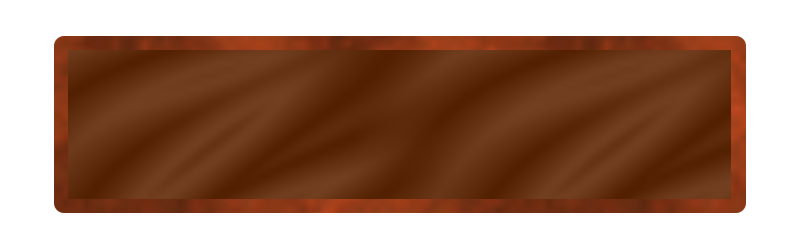
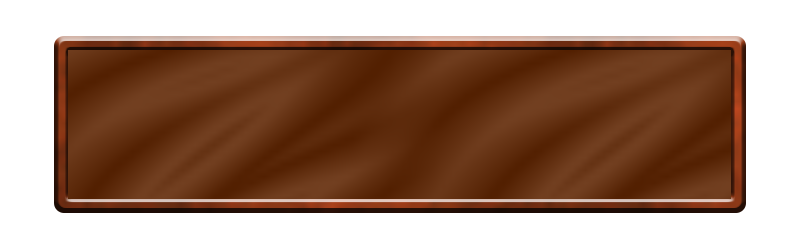
Melhorias e correções tela inicial, menu e seleção música
Melhorias e correções tela inicial, menu e seleção música.

Padronização dos botões
Exibição do nível do perfil conectado na tela de menu
Correção de scripts na tela de seleção de música

Changed region(s): [[0.0625, 0.14, 0.9375, 0.868]]

diff --git a/Assets/Scripts/TelaInicial/ScriptsTelaInicial.cs b/Assets/Scripts/TelaInicial/ScriptsTelaInicial.cs
@@ -43,38 +43,47 @@ public class ScriptsTelaInicial : MonoBehaviour{
     }
 
     public void CriarNovoPerfil() {
-        edNomeNovoPerfil.gameObject.SetActive(true);
-        edNomeNovoPerfil.onEndEdit.AddListener(delegate { EdNomeNovoPerfilOnChange(); });           
-        edNomeNovoPerfil.Select(); // SetFocus
-        edNomeNovoPerfil.ActivateInputField(); // SetFocus
+        if (!edNomeNovoPerfil.IsActive()) {
+            edNomeNovoPerfil.gameObject.SetActive(true);
+            edNomeNovoPerfil.onEndEdit.AddListener(delegate { EdNomeNovoPerfilOnChange(); });           
+            edNomeNovoPerfil.Select(); // SetFocus
+            edNomeNovoPerfil.ActivateInputField(); // SetFocus
+        } else {
+            criarNovoPerfil();
+        }
     }
 
     private void EdNomeNovoPerfilOnChange() {
         if (Input.GetKeyDown(KeyCode.Return)) {
-            try {
-                //Debug.Log("Confirmou");
-                edNomeNovoPerfil.gameObject.SetActive(false);
-                if (!edNomeNovoPerfil.text.Trim().Equals("", System.StringComparison.OrdinalIgnoreCase)) {
-                
-                    bool perfilJaCadastrado = false;
-                    foreach(Dropdown.OptionData itemCombo in cbPerfis.options) {
-                        perfilJaCadastrado = perfilJaCadastrado
-                                          || itemCombo.text.Trim().Equals(edNomeNovoPerfil.text.Trim(), System.StringComparison.OrdinalIgnoreCase);
-                    }
-                    if (!perfilJaCadastrado) {
-                        Perfil novoPerfil = new Perfil(){ nome = edNomeNovoPerfil.text.Trim(), endereco_Mac = ServicosUtils.RetornaMelhorEnderecoMac() };
-                        StartCoroutine(ServicosHttp<Perfil>.PublicaConteudoServidor(Enderecos.Perfil, novoPerfil));
-                        string enderecoipv4Perfil = $@"{Enderecos.Perfis}?macAddress={novoPerfil.endereco_Mac}&nome={novoPerfil.nome}";
-                        novoPerfil = ServicosHttp<Perfil>.RetornaObjetoServidor(enderecoipv4Perfil).Result;
-                        PerfilConfiguracoes novoPerfilConfiguracoes = new PerfilConfiguracoes() { idPerfil = novoPerfil.id, config = "VolumePrincipal", valor = "100" };
-                        StartCoroutine(ServicosHttp<PerfilConfiguracoes>.PublicaConteudoServidor($@"{Enderecos.PerfilConfiguracoes}", novoPerfilConfiguracoes));
-
-                        cbPerfis.options.Add(new Dropdown.OptionData(){ text = edNomeNovoPerfil.text.Trim()});
-                    }
-                }
-            } finally {
-                cbPerfis.RefreshShownValue();
-            }
+            criarNovoPerfil();
         }
     }
+
+    private void criarNovoPerfil() {
+        try {
+            //Debug.Log("Confirmou");
+            edNomeNovoPerfil.gameObject.SetActive(false);
+            if (!edNomeNovoPerfil.text.Trim().Equals("", System.StringComparison.OrdinalIgnoreCase)) {
+                
+                bool perfilJaCadastrado = false;
+                foreach(Dropdown.OptionData itemCombo in cbPerfis.options) {
+                    perfilJaCadastrado = perfilJaCadastrado
+                                        || itemCombo.text.Trim().Equals(edNomeNovoPerfil.text.Trim(), System.StringComparison.OrdinalIgnoreCase);
+                }
+                if (!perfilJaCadastrado) {
+                    Perfil novoPerfil = new Perfil(){ nome = edNomeNovoPerfil.text.Trim(), endereco_Mac = ServicosUtils.RetornaMelhorEnderecoMac() };
+                    StartCoroutine(ServicosHttp<Perfil>.PublicaConteudoServidor(Enderecos.Perfil, novoPerfil));
+                    string enderecoipv4Perfil = $@"{Enderecos.Perfis}?macAddress={novoPerfil.endereco_Mac}&nome={novoPerfil.nome}";
+                    novoPerfil = ServicosHttp<Perfil>.RetornaObjetoServidor(enderecoipv4Perfil).Result;
+                    PerfilConfiguracoes novoPerfilConfiguracoes = new PerfilConfiguracoes() { idPerfil = novoPerfil.id, config = "VolumePrincipal", valor = "100" };
+                    StartCoroutine(ServicosHttp<PerfilConfiguracoes>.PublicaConteudoServidor($@"{Enderecos.PerfilConfiguracoes}", novoPerfilConfiguracoes));
+
+                    cbPerfis.options.Add(new Dropdown.OptionData(){ text = edNomeNovoPerfil.text.Trim()});
+                }
+            }
+        } finally {
+            cbPerfis.RefreshShownValue();
+        }
+    }
+
 }

diff --git a/Assets/Scripts/SelecaoMusica/DropdownHandler.cs b/Assets/Scripts/SelecaoMusica/DropdownHandler.cs
@@ -50,6 +50,7 @@ public class DropdownHandler : MonoBehaviour{
                     OnDropdownMusicaisItemChange();
                 });
 
+                OnDropdownMusicaisItemChange();
             }
         }finally { 
             Musica.PararMusica(PreMusica, true);
@@ -107,6 +108,19 @@ public class DropdownHandler : MonoBehaviour{
         try{
             if(DropDownMusicas.options.Count > 0) {
                 Musica.MusicaSelecionada = DropDownMusicas.options[DropDownMusicas.value].text.Trim();
+                if(PerfilLogado.Instance.PontuacaoMusicas.IndexOf(new PontuacaoMusica(){ 
+                        idPerfil = PerfilLogado.Instance.id, 
+                        estilo = Musica.EstiloSelecionado, 
+                        musica = Musica.MusicaSelecionada }) < 0) {
+                    PontuacaoMusica novaPontuacaoMusica = new PontuacaoMusica() {
+                        idPerfil = PerfilLogado.Instance.id,
+                        estilo = Musica.EstiloSelecionado,
+                        musica = Musica.MusicaSelecionada
+                    };
+                    PerfilLogado.Instance.PontuacaoMusicas.Add(novaPontuacaoMusica);
+                    string enderecoipv4PontuacaoMusica = $@"{Enderecos.PontuacaoMusica}";
+                    StartCoroutine(ServicosHttp<PontuacaoMusica>.PublicaConteudoServidor(enderecoipv4PontuacaoMusica, novaPontuacaoMusica));
+                }
             }else
                 Musica.MusicaSelecionada = "";            
         } finally {

diff --git a/Assets/Scripts/Menu/ScriptsMenu.cs b/Assets/Scripts/Menu/ScriptsMenu.cs
@@ -1,4 +1,5 @@
 using System;
+using System.Globalization;
 using UnityEngine;
 using UnityEngine.SceneManagement;
 using UnityEngine.UI;
@@ -9,14 +10,17 @@ public class ScriptsMenu : MonoBehaviour{
     public Text lbpontuacao;
     public GameObject MenuOpcoes;
     public Slider volumeMusica;
+    private Text nivelUsuario;
 
     public void Start() {
         volumeMusica = FindObject<GameObject>("SliderVolumePrincipal").GetComponent<Slider>();
+        nivelUsuario = GameObject.FindGameObjectWithTag("MenuNivel").GetComponent<Text>();
         if (PerfilLogado.Instance.conectado) {
             lbperfil.text = PerfilLogado.Instance.nome;
-            lbpontuacao.text = "P "+ Convert.ToString(PerfilLogado.Instance.pontuacao_Total);
-            int index = PerfilLogado.Instance.Configuracoes.IndexOf(new PerfilConfiguracoes(){ config = "VolumePrincipal", idPerfil = PerfilLogado.Instance.id });
+            lbpontuacao.text = "P "+ String.Format("{0:n0}", PerfilLogado.Instance.pontuacao_Total);
+            int index = PerfilLogado.Instance.Configuracoes.IndexOf(new PerfilConfiguracoes(){ config = "VolumePrincipal", idPerfil = PerfilLogado.Instance.id });            
             volumeMusica.value = float.Parse(PerfilLogado.Instance.Configuracoes[index].valor);
+            nivelUsuario.text = "N "+ String.Format("{0:n0}", PerfilLogado.Instance.nivel);
         }
     }
 

diff --git a/Assets/Scripts/PontuacaoMusica.cs b/Assets/Scripts/PontuacaoMusica.cs
@@ -1,5 +1,4 @@
 
-using System;
 
 [System.Serializable]
 public class PontuacaoMusica{
@@ -9,4 +8,18 @@ public class PontuacaoMusica{
     public string estilo;
     public string musica;
     public int pontuacao;
+
+    public override bool Equals(object obj) {
+        if(obj == null)
+            return false;
+        if(obj == this)
+            return true;
+        if(obj.GetType() != this.GetType())
+            return false;
+        PontuacaoMusica other = (PontuacaoMusica) obj;
+        return other.idPerfil == this.idPerfil
+            && other.estilo.Equals(this.estilo)
+            && other.musica.Equals(this.musica);
+    }
+
 }
